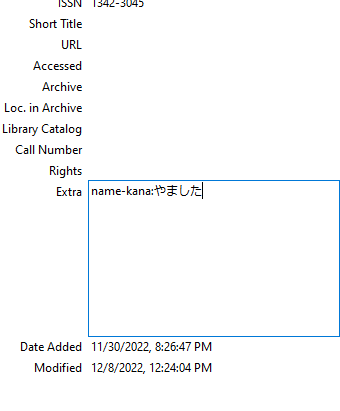
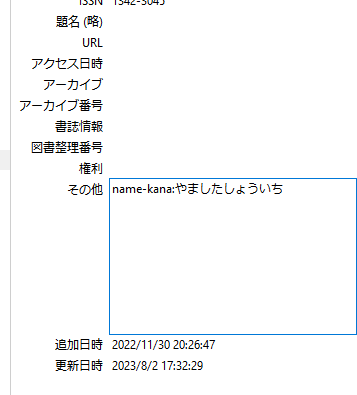
Editing IC Zemi style README

Changed region(s): [[0.0, 0.0, 1.0, 0.9418], [0.9706, 0.8203, 1.0, 0.8506]]

diff --git a/International Collaboration and Development Studies @ HUS.OU/README.MD b/International Collaboration and Development Studies @ HUS.OU/README.MD
@@ -1,8 +1,11 @@
-# ICZemi Style (日本語)
-* Using this style, you can use Japanese and English in the same document. 
-* Japanese entry requires a hiragana reading value. Please set it in the extra field as follows:  <br/>
-e.g. 山下彰一（1999）<br/>
-name-kana:やました<br/>
-![Adding new field]()
+# 国際協力学ゼミ（日本語）
+日本語の文献の情報には「name-kana」の値を設定する必要がある。 <br/>
+例えば 図１のように、「山下彰一（1999）」の「その他」のところに「name-kana:やましたしょういち」と入力する。<br/>
 
-[Download style](https://raw.githubusercontent.com/frianasoa/Zotero-Styles-JP/main/International%20Collaboration%20and%20Development%20Studies%20%40%20HUS.OU/chicago-author-date-iczemi-ja.csl)
+<figure>
+<img style="border: dotted 1px; padding: 0.5em;" src="https://github.com/frianasoa/Zotero-Styles-JP/blob/main/assets/adding-extra.png?raw=true" />
+<figure-caption>図 1. 並べ替のキーを設定する</figure-caption>
+</figure>
+
+ダウンロードは[こちら](https://raw.githubusercontent.com/frianasoa/Zotero-Styles-JP/main/International%20Collaboration%20and%20Development%20Studies%20%40%20HUS.OU/chicago-author-date-iczemi-ja.csl)に右クリックして、名前をつけて保存してください。
+
